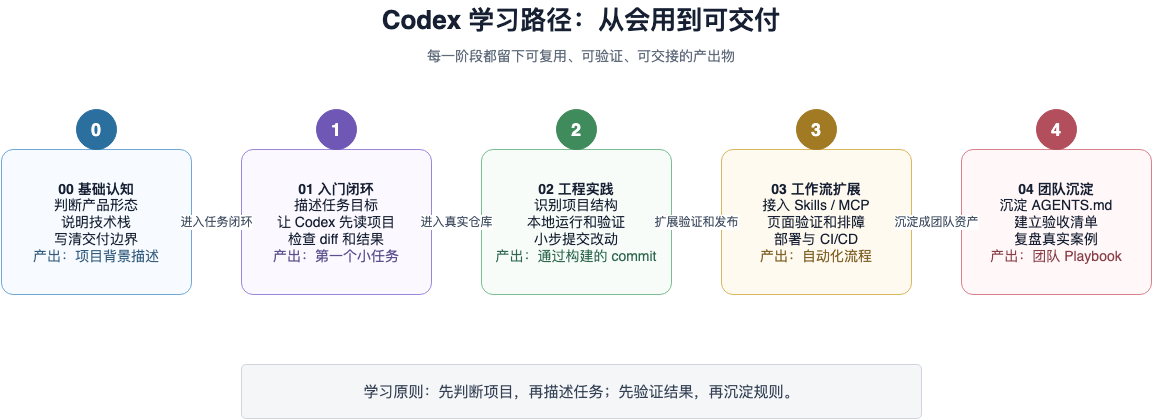
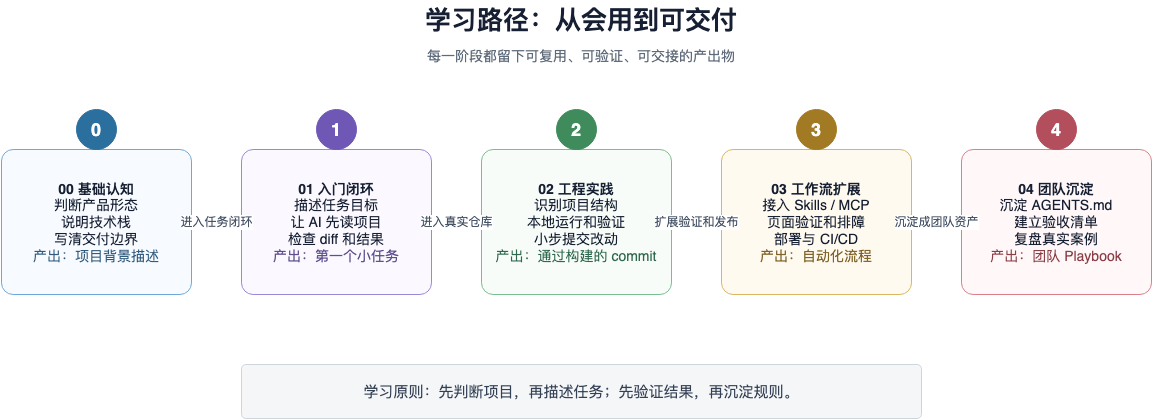
docs: drop Codex branding and refocus on AI-assisted delivery (#1)
Rename the site to 从 Demo 到商用, replace Codex-specific wording with
tool-neutral AI wording, and re-export the learning path diagram without
the Codex label. Repository URLs are unchanged.

Changed region(s): [[0.3122, 0.0, 0.6869, 0.0929], [0.2498, 0.4952, 0.3435, 0.5571]]

diff --git a/docs/index.md b/docs/index.md
@@ -2,12 +2,12 @@
 layout: home
 
 hero:
-  name: Codex Enterprise Guide
-  text: Codex 从 0 到企业级项目
-  tagline: 不只让 Codex 写出代码，还要让它读懂项目、完成验证，并把结果稳定交付出去。
+  name: 从 Demo 到商用
+  text: 用 AI 编程，把 Demo 做成能收钱、能长期运行的项目
+  tagline: 不只让 AI 写出代码，还要让它读懂项目、完成验证，并把结果稳定交付出去。
   image:
     src: /logo.svg
-    alt: Codex Enterprise Guide
+    alt: 从 Demo 到商用
   actions:
     - theme: brand
       text: 从学习路径开始
@@ -20,9 +20,9 @@ features:
   - title: 产品形态
     details: 先判断你做的是官网、小程序、后台还是 API，避免一句“帮我做个系统”把任务说空。
   - title: 技术栈
-    details: 看懂前端、后端、数据库、存储和部署各自负责什么，知道该让 Codex 去哪里改。
+    details: 看懂前端、后端、数据库、存储和部署各自负责什么，知道该让 AI 去哪里改。
   - title: AI 友好代码
-    details: 用高内聚、低耦合、单一职责组织代码，让 Codex 更容易读懂、修改和验证。
+    details: 用高内聚、低耦合、单一职责组织代码，让 AI 更容易读懂、修改和验证。
   - title: 学习路径
     details: 从第一个低风险任务开始，逐步走到真实仓库、自动发布和团队协作。
   - title: 服务器部署
@@ -35,13 +35,13 @@ features:
 
 ## 项目定位
 
-会让 Codex 生成一段代码，只是开始。后面还要判断修改位置是否正确、测试有没有覆盖、代码是否进入主线，以及线上是否真的生效。
+会让 AI 生成一段代码，只是开始。后面还要判断修改位置是否正确、测试有没有覆盖、代码是否进入主线，以及线上是否真的生效。
 
-这个项目围绕这些真实问题组织内容。你会看到怎样描述任务、怎样让 Codex 先读项目再动手、怎样检查结果，以及怎样把一次成功交付沉淀成团队可以重复使用的流程。
+这个项目围绕这些真实问题组织内容。你会看到怎样描述任务、怎样让 AI 先读项目再动手、怎样检查结果，以及怎样把一次成功交付沉淀成团队可以重复使用的流程。
 
 在进入工具之前，我们先补最容易被跳过的一层：你到底在做什么产品。官网、小程序、管理后台和 API 的交付方法完全不同。产品形态没说清，后面的技术栈、任务边界和验收都会跟着跑偏。
 
-![Codex 学习路径：从会用到可交付](/learning-path.png)
+![学习路径：从会用到可交付](/learning-path.png)
 
 ## 当前落地形态
 

diff --git a/docs/roadmap.md b/docs/roadmap.md
@@ -2,7 +2,7 @@
 
 这条路径不按工具多少来分级，而按你能不能完成一次真实交付来分级。每往前走一步，都要留下能检查、能复用的结果。
 
-![Codex 学习路径：从会用到可交付](/learning-path.png)
+![学习路径：从会用到可交付](/learning-path.png)
 
 ## 路径总览
 
@@ -11,7 +11,7 @@
 | 00 基础认知 | 先判断项目是什么，别一上来就写代码 | [产品形态](/guide/product-forms)、[技术栈](/guide/tech-stack)、[对 AI 友好的代码](/guide/ai-friendly-code) |
 | 01 入门闭环 | 完成第一个低风险任务，并知道怎么验收 | [项目总览](/guide/overview) |
 | 02 工程实践 | 进入真实仓库，完成可提交的改动 | [GitHub 协作基础](/guide/github-workflow)、[对 AI 友好的代码](/guide/ai-friendly-code) |
-| 03 工作流扩展 | 让 Codex 参与验证、文档、发布和排障 | [服务器部署](/delivery/server)、[CI/CD 流水线](/delivery/cicd) |
+| 03 工作流扩展 | 让 AI 参与验证、文档、发布和排障 | [服务器部署](/delivery/server)、[CI/CD 流水线](/delivery/cicd) |
 | 04 团队沉淀 | 把个人经验变成团队规范和案例库 | [案例库](/cases/)、[共建指南](/contribute) |
 
 推荐顺序：
@@ -32,7 +32,7 @@
 - 不同产品形态对应的用户入口、技术结构、部署方式和验收标准。
 - 前端、后端、数据库、存储、部署、CI/CD 等技术栈层次分别解决什么问题。
 - 对 AI 友好的代码原则：高内聚、低耦合、单一职责。
-- 如何在给 Codex 分配任务前说明产品形态、目标用户、核心场景和交付边界。
+- 如何在给 AI 分配任务前说明产品形态、目标用户、核心场景和交付边界。
 
 产出物：
 
@@ -47,9 +47,9 @@
 
 你需要掌握：
 
-- Codex 的不同入口：CLI、IDE、Cloud、ChatGPT。
+- AI 编程助手的几种用法：命令行、编辑器插件、云端和聊天窗口。
 - 如何描述任务背景、目标、约束和验收标准。
-- 如何让 Codex 先读项目，再动手修改。
+- 如何让 AI 先读项目，再动手修改。
 - 如何阅读它给出的 diff、测试结果和风险说明。
 
 产出物：
@@ -60,7 +60,7 @@
 
 ## 02 工程实践
 
-目标：让 Codex 进入真实仓库，完成一项可以提交、可以验证的改动。
+目标：让 AI 进入真实仓库，完成一项可以提交、可以验证的改动。
 
 你需要掌握：
 
@@ -77,7 +77,7 @@
 
 ## 03 工作流扩展
 
-目标：让 Codex 从“修改文件”走到“参与检查、发布和排障”。
+目标：让 AI 从“修改文件”走到“参与检查、发布和排障”。
 
 你需要掌握：
 

diff --git a/docs/guide/product-forms.md b/docs/guide/product-forms.md
@@ -15,7 +15,7 @@
 | 交付方式 | 是部署到公网、发布到应用商店、提交小程序审核，还是交付给内部服务器 |
 | 验收标准 | 是看页面效果、业务流程、接口稳定性、数据准确性，还是运营后台可用性 |
 
-如果不知道产品形态，就很容易把任务说成“帮我做一个系统”。Codex 可以执行，但它不知道你要的是官网、商城、小程序、管理后台，还是 API 服务。
+如果不知道产品形态，就很容易把任务说成“帮我做一个系统”。AI 可以执行，但它不知道你要的是官网、商城、小程序、管理后台，还是 API 服务。
 
 ## 常见产品形态
 
@@ -150,9 +150,9 @@ API 服务的核心是稳定、清晰、安全和可扩展。
 - 失败时有错误提示。
 - 可以重复执行，不会破坏已有数据。
 
-## 如何向 Codex 描述产品形态
+## 如何向 AI 描述产品形态
 
-给 Codex 分配任务时，可以先补上这段上下文：
+给 AI 分配任务时，可以先补上这段上下文：
 
 ```text
 这个项目的目标形态是一个微信小程序，用户可以浏览课程、提交报名信息，并通过后台查看报名列表。

diff --git a/README.md b/README.md
@@ -1,6 +1,6 @@
-# Codex 从 0 到企业级项目
+# 从 Demo 到商用
 
-一份面向个人、创作者、开发者与团队的 Codex 实践指南。目标不是整理命令，而是把 Codex 用法沉淀成可学习、可复制、可团队化的工作流。
+一份写给有一定编程基础、但基础不扎实的人的实践指南：用 AI 编程，把 Demo 做成能收钱、能长期运行的项目。目标不是整理命令，而是把 AI 编程的用法沉淀成可学习、可复制、可团队化的工作流。
 
 ## 当前版本
 
@@ -97,8 +97,8 @@ push main -> npm ci -> npm run check -> npm run build -> upload artifact -> depl
 
 ## 下一步
 
-1. 补第一篇教程：`第一次让 Codex 理解一个项目`
-2. 补一个案例：`用 Codex 为当前项目生成 README 和首页`
+1. 补第一篇教程：`第一次让 AI 理解一个项目`
+2. 补一个案例：`用 AI 为当前项目生成 README 和首页`
 3. 补一篇服务器部署教程：`把文档站发布到云服务器`
 4. 补一篇 CI/CD 教程：`用 GitHub Actions 自动构建和发布`
 5. 增加目录页：`roadmap.html`、`cases.html`、`playbook.html`

diff --git a/docs/cases/index.md b/docs/cases/index.md
@@ -8,8 +8,8 @@
 
 - 背景是什么。
 - 输入材料是什么。
-- 给 Codex 的任务怎么写。
-- Codex 做了哪些动作。
+- 给 AI 的任务怎么写。
+- AI 做了哪些动作。
 - 怎么验证结果。
 - 哪些地方失败过。
 - 这个案例适合迁移到什么场景。
@@ -25,9 +25,9 @@
 | 把静态首页升级为 VitePress 文档站 | 已落地 |
 | 用 GitHub Actions 发布 GitHub Pages | 已落地 |
 | 为项目补服务器部署说明 | 已落地 |
-| 用 Codex 生成团队 AGENTS.md | 待补 |
+| 用 AI 生成团队 AGENTS.md | 待补 |
 | 用 Playwright 做页面冒烟测试 | 待补 |
-| 用 Codex 修复失败的 CI | 待补 |
+| 用 AI 修复失败的 CI | 待补 |
 
 ## 已落地案例
 

diff --git a/docs/guide/system-design.md b/docs/guide/system-design.md
@@ -201,4 +201,4 @@
 暂不做什么：哪些功能不属于本轮范围，避免设计不断膨胀？
 ```
 
-当这些问题有了答案，页面、技术栈和开发任务才有了可靠的上下文。Codex 这时才能准确判断应该读哪些文件、修改哪些模块、运行哪些验证，并把一次项目经验沉淀成下一次可以复用的系统设计方法。
+当这些问题有了答案，页面、技术栈和开发任务才有了可靠的上下文。AI 这时才能准确判断应该读哪些文件、修改哪些模块、运行哪些验证，并把一次项目经验沉淀成下一次可以复用的系统设计方法。

diff --git a/docs/contribute.md b/docs/contribute.md
@@ -8,9 +8,9 @@
 
 每篇内容先明确读者：
 
-- 第一次使用 Codex 的新手。
-- 已经会写代码但不会让 Codex 进项目的开发者。
-- 想把 Codex 引入团队流程的负责人。
+- 第一次用 AI 编程的新手。
+- 会写代码，但还不会让 AI 进入真实项目的开发者。
+- 想把 AI 编程引入团队流程的负责人。
 - 想做自动化交付的创作者。
 
 ### 写成可执行流程
